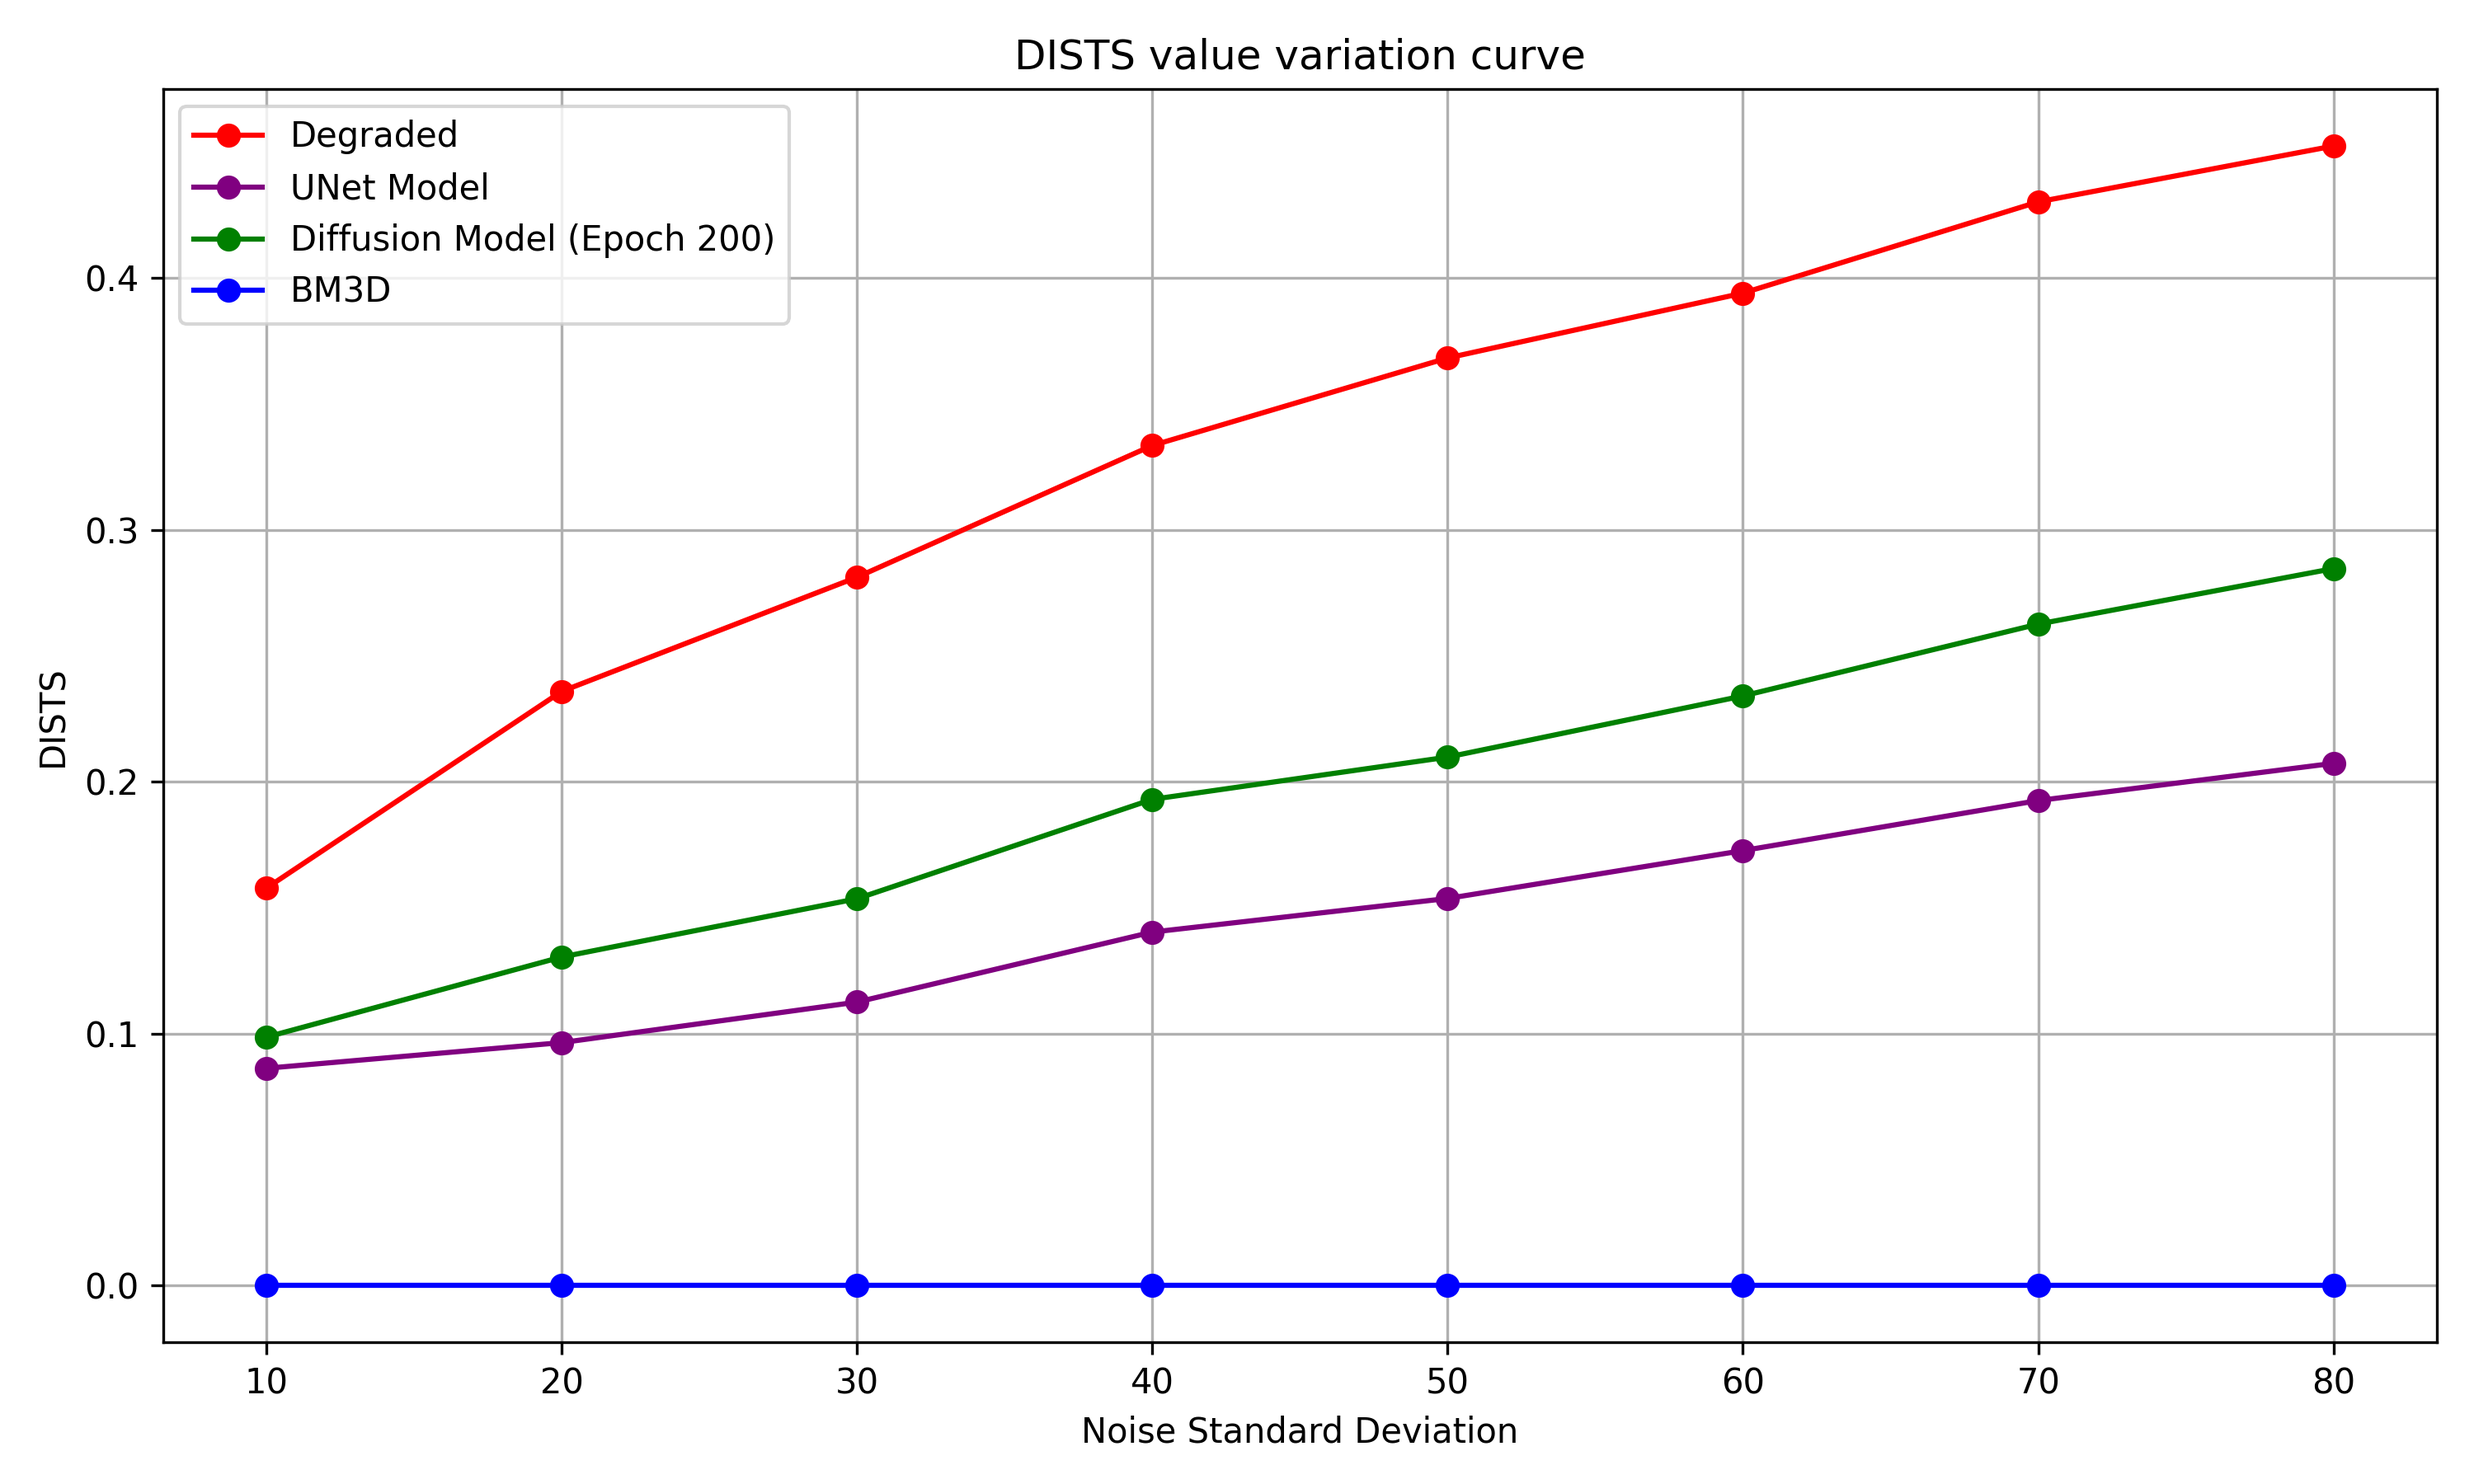
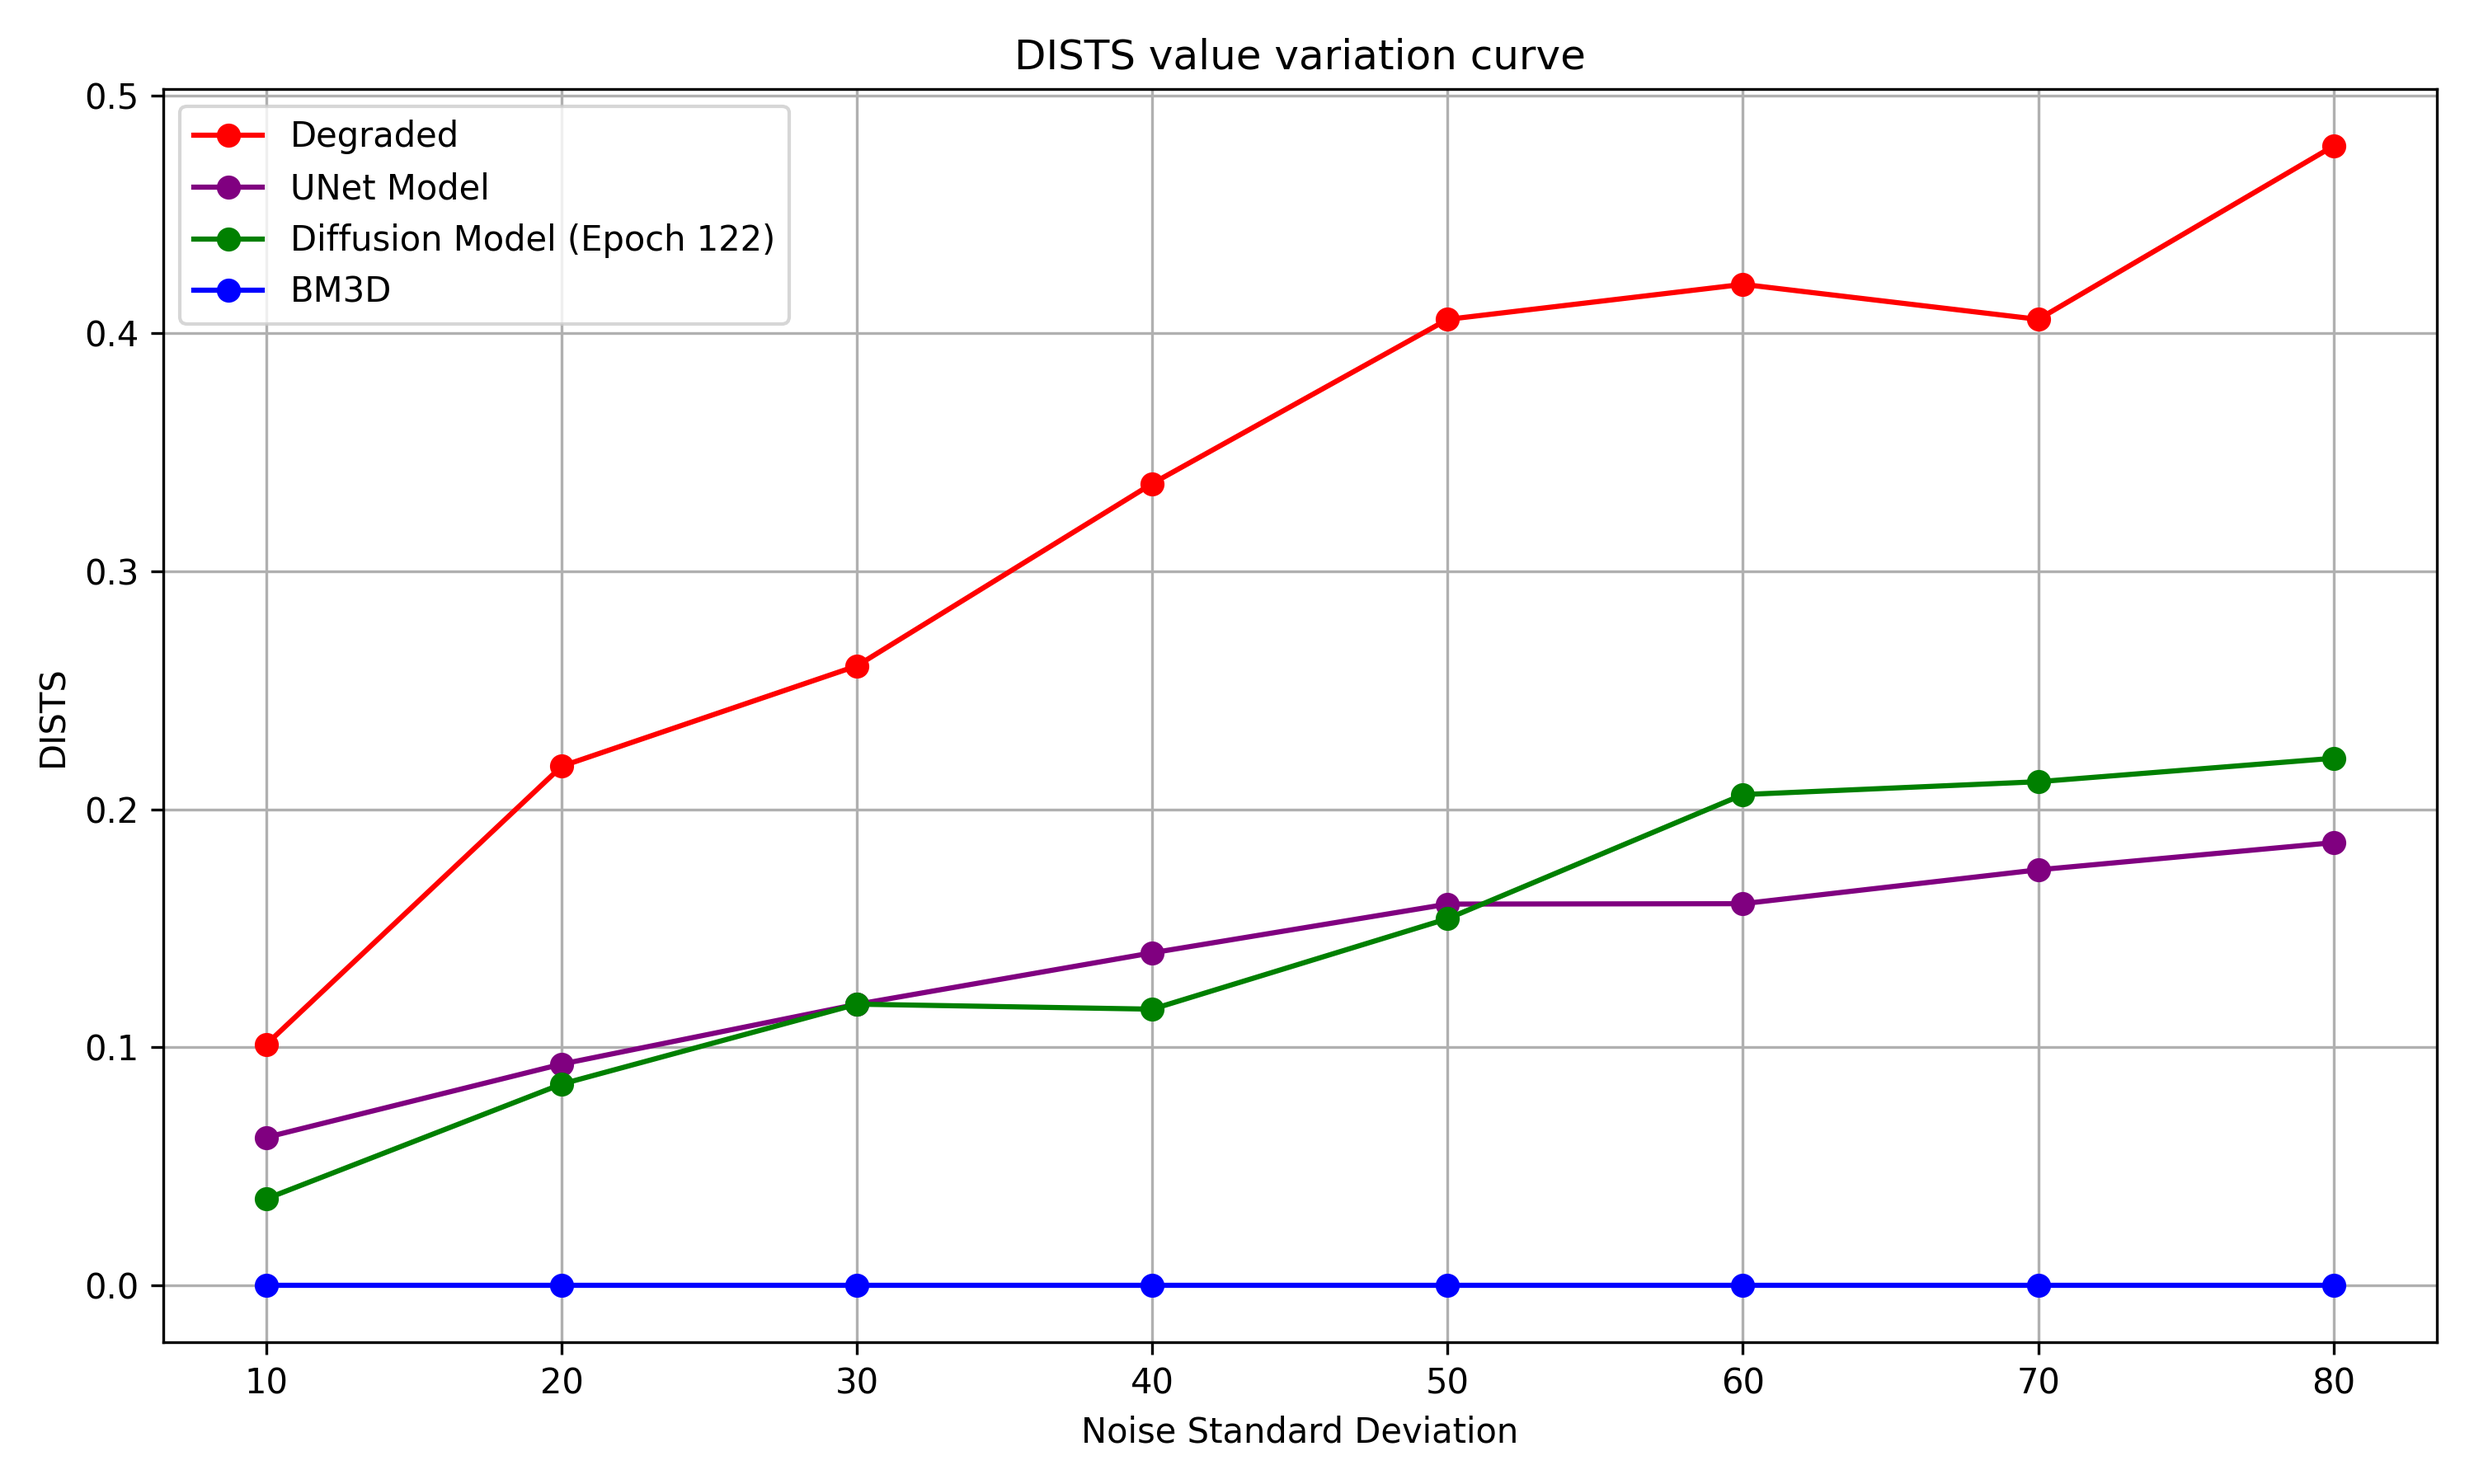
Refactor evaluate_model.py to consistently handle image shapes and convert RGB images to grayscale

diff --git a/evaluate_model.py b/evaluate_model.py
@@ -769,9 +769,9 @@ if __name__ == "__main__":
     train_noise_levels = [10, 20, 30, 40, 50, 60, 70, 80]
     val_noise_levels = [10, 20, 30, 40, 50, 60, 70, 80]
 
-    train_loader, val_loader = load_data(image_folder, batch_size=1, num_workers=8, validation_split=0.5, augment=False, dataset_percentage=0.001, only_validation=False, include_noise_level=True, train_noise_levels=train_noise_levels, val_noise_levels=val_noise_levels, use_rgb=True)
+    train_loader, val_loader = load_data(image_folder, batch_size=1, num_workers=8, validation_split=0.5, augment=False, dataset_percentage=0.01, only_validation=False, include_noise_level=True, train_noise_levels=train_noise_levels, val_noise_levels=val_noise_levels, use_rgb=True)
 
-    epochs_to_evaluate = [5]
+    epochs_to_evaluate = [50, 134]
     diffusion_model_paths = [f"checkpoints/diffusion_RDUNet_model_checkpointed_epoch_{epoch}.pth" for epoch in epochs_to_evaluate]
     unet_model_path = "checkpoints/rdunet_denoising.pth"
 
